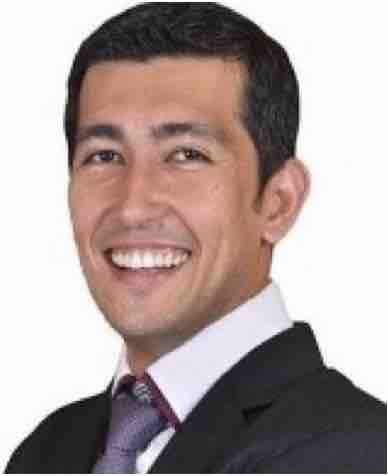
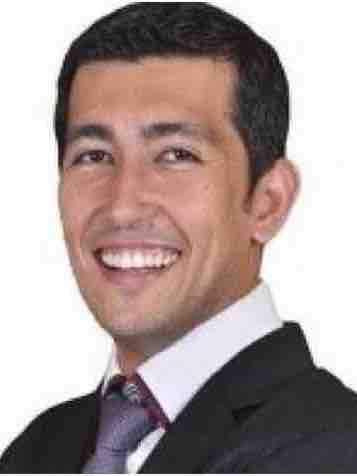
up

diff --git a/Pessoas/Discentes/index_dis.html b/Pessoas/Discentes/index_dis.html
@@ -45,9 +45,9 @@
                   <div class="column">
                       <table>
                           <tr>
-                              <td><img src="pic-heitor.jpg" width=120 height=160></img></td>
+                              <td><img src="pic-farney.jpg" width=120 height=160></img></td>
                               <td>
-                              <p>Heitor Barros<br/>Doutorado<br/><a href="http://lattes.cnpq.br/1631459147702000" style="color:blue;text-decoration:none;">CV Lattes</a></p>
+                              <p>Heitor Barros<br/>Pos-Doc<br/><a href="http://lattes.cnpq.br/7633319046186847" style="color:blue;text-decoration:none;">CV Lattes</a></p>
                               </td>
                           </tr>
                       </table>
